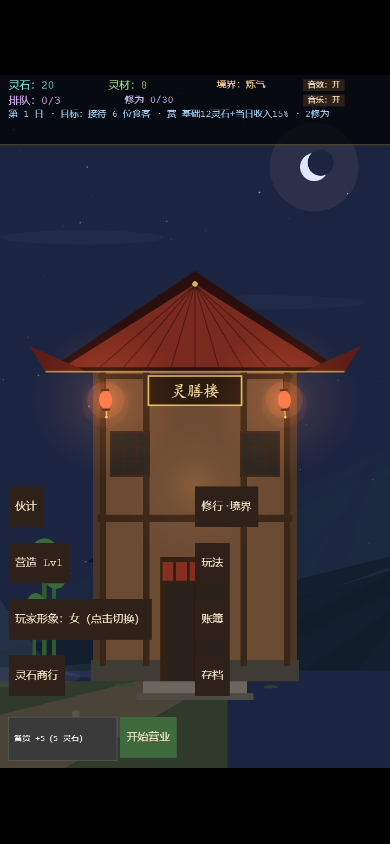
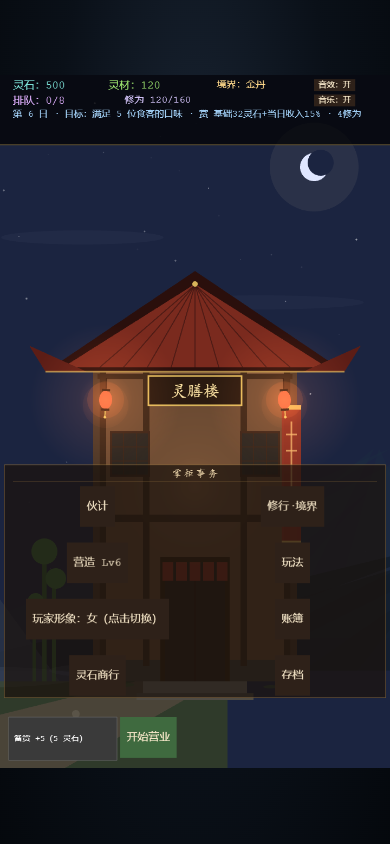
最终画面收口：角色名片、掌柜名牌、居中导航与生产复核
- 选形象页改为两张金框角色名片（少年/少女掌柜），预览会呼吸眨眼，按钮下移不压卡
- 玩家站位移到门口内侧 x=240，加金色衣缘与「掌柜」名牌；走路加入起伏
- 准备界面收进居中的「掌柜事务」面板，按钮居中排布；开始营业放大
- 烹饪桌卡显示剩余秒数；第 1 天起锅提示
- 页面上下黑边改为墨色渐变；事件 toast 统一暖木色；HUD 左右留白
- 生产包最终冒烟：标题→角色名片→进店→开张，无 DEV 钩子、无脚本错误、canvas 居中
- 试玩记录补第三轮美术复测分数与环境说明

测试：46 条单测、tsc、生产构建通过。

Changed region(s): [[0.0, 0.4621, 1.0, 0.8318], [0.0, 0.0, 0.9231, 0.154]]

diff --git a/src/main.ts b/src/main.ts
@@ -99,10 +99,10 @@ const SKY_TRANSITION_MS = 2000;
 const FLOOR_Y = 1010;
 const ACTOR_Y = FLOOR_Y - 34;
 const TABLE_X_MIN = -230;
-const TABLE_X_MAX = 200;
+const TABLE_X_MAX = 170;
 const QUEUE_X = 350;
 const QUEUE_GAP = 52;
-const PLAYER_HOME = { x: 0, y: ACTOR_Y };
+const PLAYER_HOME = { x: 240, y: ACTOR_Y };
 const HAWKER_HOME = { x: 280, y: ACTOR_Y };
 const SERVER_HOME = { x: 120, y: ACTOR_Y };
 const COOK_HOME = { x: -290, y: ACTOR_Y };
@@ -816,6 +816,7 @@ class TavernScene extends Phaser.Scene {
   private uiObjects: { obj: { x: number; setScrollFactor(v: number): unknown }; baseX: number }[] = [];
 
   private playerChar!: Character;
+  private playerLabel!: Phaser.GameObjects.Text;
   private staffChars: Partial<Record<StaffRole, Character>> = {};
   private playerGender: "male" | "female" = "male";
 
@@ -1157,10 +1158,15 @@ class TavernScene extends Phaser.Scene {
     for (const x of [180, 540]) {
       layer.add(
         this.add
+          .rectangle(x, 510, 176, 276, 0x1a120c, 0.82)
+          .setStrokeStyle(2, 0x8a6a3a, 0.7),
+      );
+      layer.add(
+        this.add
           .image(x, 500, "soft-glow")
           .setTint(0xffb060)
-          .setAlpha(0.32)
-          .setScale(1.25)
+          .setAlpha(0.48)
+          .setScale(1.35)
           .setBlendMode(Phaser.BlendModes.ADD),
       );
     }
@@ -1169,10 +1175,28 @@ class TavernScene extends Phaser.Scene {
     const female = new Character(this, 540, 500, 0xc86a9e, 0x4a2b1a, true, "player");
     female.setScale(-2.2, 2.2).disableInteractive();
     layer.add([male, female]);
+    layer.add(
+      this.add
+        .text(180, 622, "少年掌柜", {
+          fontSize: "14px",
+          color: "#c8b8a0",
+          fontFamily: XIAN_FONT,
+        })
+        .setOrigin(0.5),
+    );
+    layer.add(
+      this.add
+        .text(540, 622, "少女掌柜", {
+          fontSize: "14px",
+          color: "#c8b8a0",
+          fontFamily: XIAN_FONT,
+        })
+        .setOrigin(0.5),
+    );
 
     const pick = (x: number, label: string, gender: "male" | "female", color: string) => {
       const btn = this.add
-        .text(x, 660, label, {
+        .text(x, 700, label, {
           fontSize: "30px",
           color: "#ffe6c8",
           backgroundColor: color,
@@ -1429,6 +1453,17 @@ class TavernScene extends Phaser.Scene {
 
     this.playerChar = new Character(this, PLAYER_HOME.x, PLAYER_HOME.y, 0x4a7ab8, 0x2b2b2b, false, "player");
     this.playerChar.setVisible(false);
+    this.playerLabel = this.add
+      .text(PLAYER_HOME.x, PLAYER_HOME.y - 104, "掌柜", {
+        fontSize: "12px",
+        color: "#ffe6a8",
+        backgroundColor: "rgba(30,22,15,0.78)",
+        padding: { x: 5, y: 2 },
+        fontFamily: XIAN_FONT,
+      })
+      .setOrigin(0.5)
+      .setDepth(26)
+      .setVisible(false);
   }
 
   /** 酒楼内部（侧视图）：背景墙、地面、左侧厨房灶台、右侧门口、两侧窗户。 */
@@ -2169,17 +2204,20 @@ class TavernScene extends Phaser.Scene {
         .setStrokeStyle(2, 0x8a6a3a, 0.45),
     );
     this.navPanel.add(
-      this.add.text(24, 726, "掌柜事务", {
-        fontSize: "15px",
-        color: "#e0c9a0",
-        fontFamily: XIAN_FONT,
-      }),
+      this.add
+        .text(360, 726, "掌柜事务", {
+          fontSize: "18px",
+          color: "#e0c9a0",
+          fontFamily: XIAN_FONT,
+        })
+        .setOrigin(0.5, 0)
+        .setLetterSpacing(4),
     );
     this.navPanel.add(this.add.rectangle(24, 750, 672, 1, 0x8a6a3a, 0.4).setOrigin(0, 0));
     const nav = { x: 12, y: 28 };
     this.staffButton = this.addUiButton(
-      16,
-      760,
+      180,
+      797,
       () => {
         this.staffNotice = "";
         this.buildStaffOverlay();
@@ -2187,14 +2225,14 @@ class TavernScene extends Phaser.Scene {
       nav,
       6,
       "20px",
-    );
-    this.upgradeButton = this.addUiButton(16, 864, () => this.buildBuildOverlay(), nav, 6, "20px");
-    this.genderButton = this.addUiButton(16, 968, () => this.toggleGender(), nav, 6, "20px");
-    this.bankButton = this.addUiButton(16, 1072, () => this.buildBankOverlay(), nav, 6, "20px");
-    this.cultivationButton = this.addUiButton(360, 760, () => this.buildCultivationOverlay(), nav, 6, "20px");
-    this.helpButton = this.addUiButton(360, 864, () => this.showHelp(), nav, 6, "20px");
-    this.recordButton = this.addUiButton(360, 968, () => this.buildRecordOverlay(), nav, 6, "20px");
-    this.saveButton = this.addUiButton(360, 1072, () => this.openSaveDialog("export"), nav, 6, "20px");
+    ).setOrigin(0.5);
+    this.upgradeButton = this.addUiButton(180, 901, () => this.buildBuildOverlay(), nav, 6, "20px").setOrigin(0.5);
+    this.genderButton = this.addUiButton(180, 1005, () => this.toggleGender(), nav, 6, "20px").setOrigin(0.5);
+    this.bankButton = this.addUiButton(180, 1109, () => this.buildBankOverlay(), nav, 6, "20px").setOrigin(0.5);
+    this.cultivationButton = this.addUiButton(540, 797, () => this.buildCultivationOverlay(), nav, 6, "20px").setOrigin(0.5);
+    this.helpButton = this.addUiButton(540, 901, () => this.showHelp(), nav, 6, "20px").setOrigin(0.5);
+    this.recordButton = this.addUiButton(540, 1005, () => this.buildRecordOverlay(), nav, 6, "20px").setOrigin(0.5);
+    this.saveButton = this.addUiButton(540, 1109, () => this.openSaveDialog("export"), nav, 6, "20px").setOrigin(0.5);
 
     this.buildBoothVisuals();
     this.positionUi(false);
@@ -3765,6 +3803,7 @@ class TavernScene extends Phaser.Scene {
       fontSize: isOpen ? "17px" : "20px",
       color: "#f5e6c8",
       backgroundColor: isOpen ? "#3f2a22" : "#3f6a3f",
+      padding: isOpen ? { x: 20, y: 28 } : { x: 40, y: 28 },
     });
     this.boothVisuals.forEach((v) => {
       v.bg.setVisible(isOpen);
@@ -4276,8 +4315,8 @@ class TavernScene extends Phaser.Scene {
     const toast = this.add
       .text(SCREEN_W / 2, 600, message, {
         fontSize: "19px",
-        color: good ? "#ffd98a" : "#ff9a8a",
-        backgroundColor: good ? "#2a3a1a" : "#3a1a1a",
+        color: good ? "#ffe6c8" : "#ff9a8a",
+        backgroundColor: "rgba(30,22,15,0.94)",
         padding: { x: 16, y: 10 },
         align: "center",
         wordWrap: { width: 600 },
@@ -4914,6 +4953,8 @@ class TavernScene extends Phaser.Scene {
 
   private refreshHud() {
     const open = this.gameState === "open";
+    this.playerLabel.setVisible(open);
+    if (open) this.playerLabel.setPosition(this.playerChar.x, this.playerChar.y - 104);
 
     this.coinsText.setText(`灵石：${this.displayedCoins}`);
     this.inventoryText.setText(`灵材：${this.inventory}`);

diff --git a/index.html b/index.html
@@ -9,7 +9,11 @@
     />
     <title>灵膳楼</title>
     <style>
-      html, body { margin: 0; padding: 0; background: #000; overflow: hidden; }
+      html, body { margin: 0; padding: 0; overflow: hidden; }
+      body {
+        background:
+          radial-gradient(ellipse at 50% 28%, #1a2534 0%, #0a1018 52%, #04070b 100%);
+      }
       /* 让 Phaser 的 CENTER_BOTH 自己居中；外层再用 flex 会和 canvas margin 叠加，画面偏下 */
       #app { width: 100vw; height: 100vh; }
       canvas { display: block; max-width: 100vw; max-height: 100vh; }

diff --git a/docs/playtest.md b/docs/playtest.md
@@ -44,7 +44,13 @@
 - **色彩割裂**：窗户色混入暖褐，门外加低雾带；结算卡改暖木色不透明，避免透出匾额。
 - **升级看不见**：Lv2 起挂红绸、Lv3 加金线、Lv4 柜上盆栽、Lv6 加两盏小灯、Lv8 铺红毯；门面招幡 Lv1/Lv2 会在立面挂旗，灶台升级会多出火苗，升级后立即重绘店里/门面。截图见 `docs/screenshots/upgrades.png`。
 
-这些修正尚未再跑一次美术盲测，因此上面的 6/4/5、8/5/4 不是当前版本的最终分数。
+第三轮美术复测：
+
+- 休闲玩家：第一眼 7 / 人物 5 / 沉浸 5，并明确说“想再开一天（差一位没达标）”；它仍指出人物移动像瞬移、准备界面像调试面板、HUD 贴边。
+- 美术总监：5 / 4 / 5，但其会话带着旧存档，没有看到首次标题页与形象预览（它描述的是回访经营首页和「玩家形象」开关），因此第一眼分数不适用于首次进入；其余关于玩家/客人重叠、HUD/导航压墙、气泡样式的意见已采纳。
+- 按这两份意见追加：玩家站位从正中移到门口内侧 x=240 并加金色衣缘与「掌柜」名牌；准备界面收进居中的双列「掌柜事务」面板，开始营业放大；行走加起伏；烹饪桌卡显示秒数；选形象页改成两张带金框、角色预览和「少年/少女掌柜」的名片；页面黑边改为墨色渐变；事件 toast 统一为暖木色。这些最后修正尚未再跑完整盲测。
+
+因此当前版本的最终盲测分数仍应视为 **休闲 7 / 5 / 5**（第三轮修正前），美术总监的首次进入分数无效；不能把上述任何一轮分数当作“全世界最好玩”的证明。
 
 ## 当前构建的实测
 
@@ -139,7 +145,7 @@
 - `npm test`：46 条单元测试全过，覆盖雅座/升级、伙计工资、采购、贷款（含第 3 日门槛）、昼夜、食客口味与上错半价、每日目标与 15% 收入奖励、随机事件期望/损失上限、修为境界、飞升倍率/开局等级/开局资源、账簿/成就、导出码往返、BGM 乐句结构。
 - `npm run build`：TypeScript 与 Vite 生产构建通过。
 - 浏览器驱动验证：真实默认首局、自动产线、手动暂停灶上、菜单对比、打烊在途结算、打烊前慢菜拦截、飞升（第 1/第 4 重）、破产、导出/导入、小借日门槛、手机 390×844 全流程。
-- 生产构建验证（当前 dist + preview，390×844）：标题页→选形象（两个角色预览）→直接进店→开始营业→菜单开张，正常进入营业视图；`window.__tavern` 不存在（DEV 调试钩子未进正式包）；控制台无脚本错误。最新一轮复验在第三轮画面修正之后执行。
+- 生产构建验证（当前 dist + preview，390×844）：标题页→选形象（两张带金框的角色名片）→直接进店→开始营业→菜单开张，正常进入营业视图；`window.__tavern` 不存在（DEV 调试钩子未进正式包）；控制台无脚本错误。最新一轮复验在第三轮画面修正之后执行。
 
 ## 节奏估算
 
@@ -171,7 +177,7 @@
 ## 截图
 
 - 首次进入的标题页（月晕/水墨山/前景屋脊/朱印/推门入座）：`docs/screenshots/title.png`
-- 选形象页（两个会呼吸眨眼的角色预览）：`docs/screenshots/gender.png`
+- 选形象页（两张带金框、会呼吸眨眼的角色名片）：`docs/screenshots/gender.png`
 - 营业高峰（随机入座、身份人物、无底色桌卡、出菜行）：`docs/screenshots/busy-tavern.png`
 - 脚本试玩结算（当前 UI 的暖木卡；此图为示例对局 3 位/34 灵石/流失 4，真实默认首局数据见上表）：`docs/screenshots/settlement.png`
 - 手动暂停灶上的高流水结算（旧版 UI 数据记录）：`docs/screenshots/manual-run.png`
